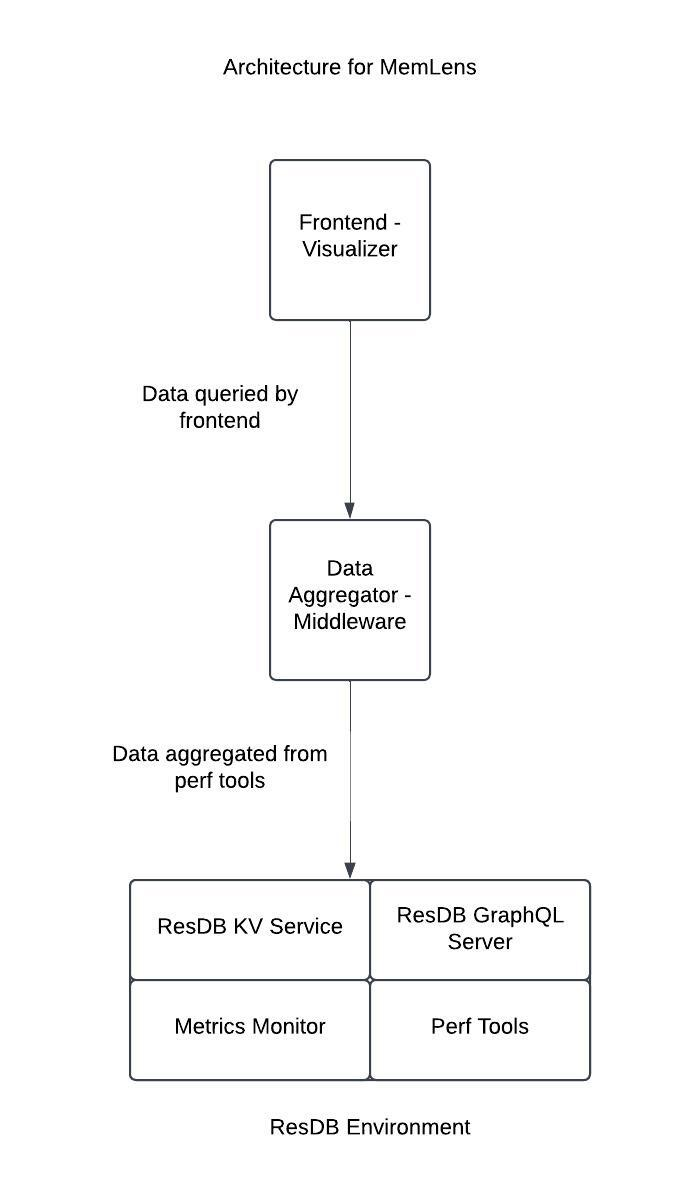
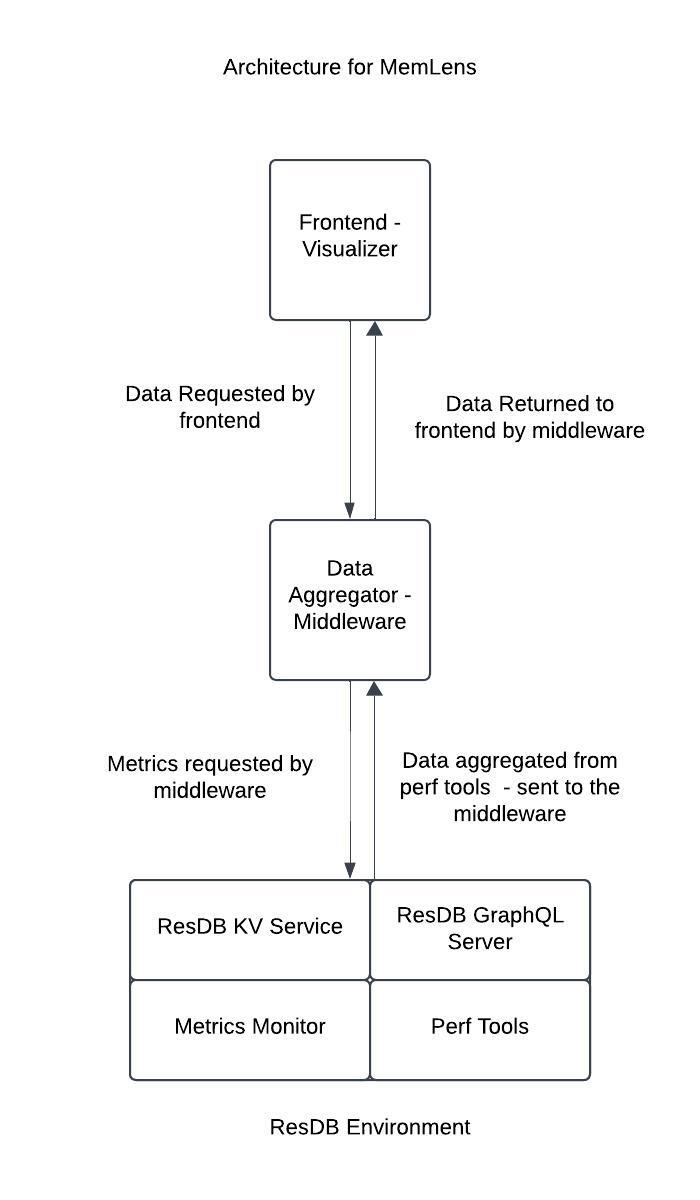
markdown changes to the blog

diff --git a/_posts/2024-12-07-MemLens.md b/_posts/2024-12-07-MemLens.md
@@ -18,7 +18,7 @@ article_header:
 
 # What is MemLens?
 
-MemLens is a comprehensive CPU and memory profiler designed for ResilientDB, offering granular, real-time performance insights through continuous profiling. By integrating advanced profiling tools such as eBPF, Node Exporter, Process Exporter, LevelDB internal statistics, and custom Prometheus hooks, MemLens provides a robust platform for database-specific metrics.
+MemLens is a comprehensive CPU and memory profiler designed for ResilientDB, offering granular, real-time performance insights through continuous profiling. By integrating advanced profiling tools and aggregating data from various system and process specific sources, MemLens provides a robust platform for database-specific metrics.
 
 Our platform delivers detailed insights into the inner workings of the database, empowering users to optimize system performance effectively. Key metrics include cache hit ratios, storage and disk performance, CPU usage, call stack visualizations, dependency graphs, and more. The integration of continuous profiling ensures that performance trends and anomalies can be identified over time, enabling proactive optimization and system tuning.
 
@@ -60,10 +60,7 @@ Below is a architecture diagram of MemLens:
 
 The diagram can be broken down as follows. A client request for a particular metric is made by the client to the middleware. This layer acts as a data aggregation platform which collects metrics from the ResDB environment. The various data sources include time series data from `node_exporter`, call stack data from [pyroscope](https://pyroscope.io/), storage engine metrics from hooks integrated into ResDB's CPP source code. ResDB Graphql service is also running to interface GET and SET API calls via HTTP requests.
 
-ResView offers both ways to interact with the ResilientDB architecture, as well as ways to visualize what is occurring in ResilientDB. Users are able to interact with ResilientDB through the application using the transaction forms and "make a replica faulty" buttons. Within the transaction forms, users input the data fields for the transaction they wish to send and press either set or get. Once this transaction is confirmed, it is sent via Axios to the sdk, which verifies the transaction and forwards it to the ReslientDB backend, where it is then processed and executed.
-
 ---
-
 ## Metrics
 
 ### Call Stack Visualization
@@ -114,7 +111,7 @@ Dependency Graph for ResDB's KV Service obtained by running the command `bazel q
 
 ## Data Collection
 
-MemLens uses a data aggregation layer, a thin HTTP service which sits between the Visualizer and the ResDB environment. As the name suggests this aggregation layer collects data from various profiling tools and exposes a single platform for the frontend to request data. We chose this architecture as it would allows us to scale this system by introducing time series databases in the future to collect data over a period of time and analyze trends and gauge behaviour.
+MemLens uses a data aggregation layer, a thin HTTP service which sits between the Visualizer and the ResDB environment. As the name suggests this aggregation layer collects data from various profiling tools and exposes a single platform for the frontend to request data. We chose this architecture as it would allows us to scale this system by introducing a time series databases in the future and collect data over a period of time and analyze trends and gauge behaviour.
 
 ## Data Sources
 
@@ -229,13 +226,13 @@ npm run dev
 ```
 ## Using the MemLens Application
 
-Once ResView has been started, go to http://localhost:5173
+Once MemLens has been started, go to http://localhost:5173
 
 You will see a landing page with a brief description of the project and on scrolling down will see a brief of the PBFT protocol, and a explorer card to access the dashboard.
 
 Once the dashboard page has loaded, it will make an API call to the middleware running on http://localhost:3002 to check if the middleware is active and running. If the middleware is running and all profiling tools are installed then , the dashboard switches to a `Live` mode which fetches live data from the middleare. If no accompanying backend services are running, then the app switches to a `Offline` mode which loads snapshots of data collected by the team. This mode could be used for exploration and familiarising with the interface.
 
-The dashboard has 3 tabs, Memory Tracker, CPU and Bazel Build. The memory tracker loads a playground which is a terminal emulator to `GET` and `SET` values into the KV store. A dashboard card dedicated to storage engine metrics and disk metrics. Each graphical card can be be refreshed which will refresh the data. The CPU tab displays a CPU Line graph which displays a graphical view of CPU usage over a period of time, and a accompanying flamegraph to display the call stack. The line graph can be highlighted into in order to magnify the CPU usage over that specific time window and the flamegraph automatically updates according to the time frame chosen.  The bazel build tab displa a dependency graph showcasing the dependencies for the KV service and a select menu to dynamically change the depth of the graph output and the command run to generate the visualized build data.
+The dashboard has 3 tabs, Memory Tracker, CPU and Bazel Build. The memory tracker loads a playground which is a terminal emulator to `GET` and `SET` values into the KV store. A dashboard card dedicated to storage engine metrics and disk metrics. Each graphical card can be be refreshed which will refresh the data. The CPU tab displays a CPU Line graph which displays a graphical view of CPU usage over a period of time, and a accompanying flamegraph to display the call stack. The line graph can be highlighted into in order to magnify the CPU usage over that specific time window and the flamegraph automatically updates according to the time frame chosen.  The bazel build tab displays a dependency graph showcasing the dependencies for the KV service and a select menu to dynamically change the depth of the graph output and the command run to generate the visualized build data.
 
 # Future Work
 
@@ -284,7 +281,6 @@ Link to - [Presentation Slides](https://docs.google.com/presentation/d/1dU_16nNG
 [Krishna](https://www.linkedin.com/in/krishna-karthik-97b74b222/):
 - Polished the visual design and functionality of the application, including creating a sliding button link for a smoother user experience. Assisted team during the presentation by ensuring the frontend was presentation-ready.
 - Supported the development of frontend components, enhancing usability and visual appeal while ensuring seamless integration with the backend.
-- Contributed to middleware development to establish efficient communication between the backend monitoring systems and the frontend interface.
 - Played a key role in developing features like Bazel build visualization to enhance project debugging and performance monitoring capabilities.
 <br>
 
